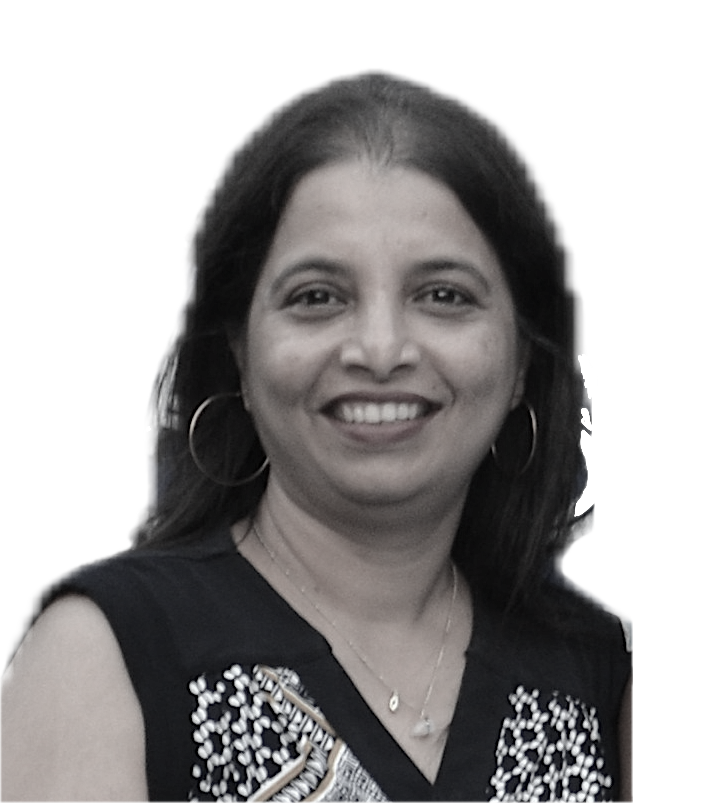
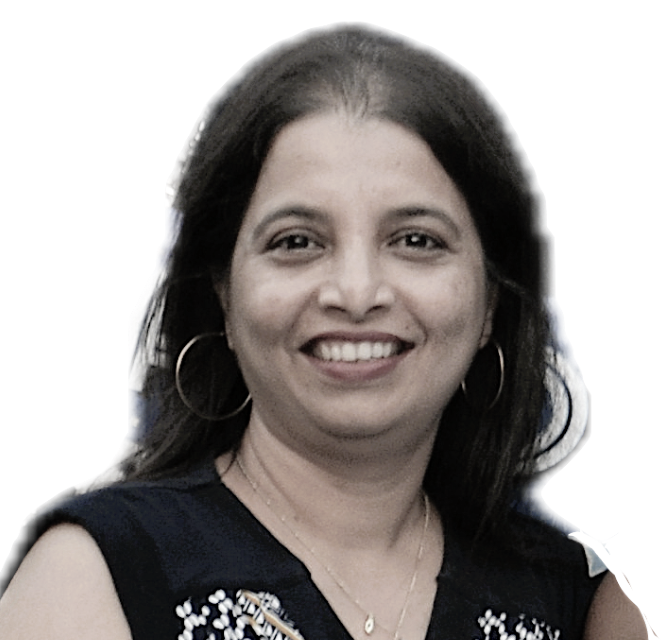
added more photos

diff --git a/index.html b/index.html
@@ -558,7 +558,7 @@
             <div class="owl-carousel team-carousel position-relative" style="padding-left: 30px;">
                 <div class="team-item rounded overflow-hidden">
                     <div class="position-relative">
-                        <img class="img-fluid w-100" src="img/Vru.jpg" alt="">
+                        <img class="img-fluid w-100" src="img/Vru.png" alt="">
                         <div class="team-overlay">
                             <div class="d-flex align-items-center justify-content-start">
                                 <a class="btn btn-lg btn-primary btn-lg-square mx-1" href="#"><i class="fab fa-twitter"></i></a>
@@ -569,12 +569,12 @@
                     </div>
                     <div class="bg-light text-center p-4">
                         <h4 class="text-uppercase">Vrushali Deore</h4>
-                        <p class="m-0">CEO, Founder</p>
+                        <p class="m-0">Founder & CEO</p>
                     </div>
                 </div>
                 <div class="team-item rounded overflow-hidden">
                     <div class="position-relative">
-                        <img class="img-fluid w-100" src="img/team-2.jpg" alt="">
+                        <img class="img-fluid w-100" src="img/Pankaj-Deore.jpg" alt="">
                         <div class="team-overlay">
                             <div class="d-flex align-items-center justify-content-start">
                                 <a class="btn btn-lg btn-primary btn-lg-square mx-1" href="#"><i class="fab fa-twitter"></i></a>
@@ -584,13 +584,13 @@
                         </div>
                     </div>
                     <div class="bg-light text-center p-4">
-                        <h4 class="text-uppercase">N/A</h4>
-                        <p class="m-0">N/A</p>
+                        <h4 class="text-uppercase">Pankaj Deore</h4>
+                        <p class="m-0">Advisor</p>
                     </div>
                 </div>
                 <div class="team-item rounded overflow-hidden">
                     <div class="position-relative">
-                        <img class="img-fluid w-100" src="img/team-3.jpg" alt="">
+                        <img class="img-fluid w-100" src="img/Blank.jpg" alt="">
                         <div class="team-overlay">
                             <div class="d-flex align-items-center justify-content-start">
                                 <a class="btn btn-lg btn-primary btn-lg-square mx-1" href="#"><i class="fab fa-twitter"></i></a>
@@ -600,8 +600,8 @@
                         </div>
                     </div>
                     <div class="bg-light text-center p-4">
-                        <h4 class="text-uppercase">N/A</h4>
-                        <p class="m-0">N/A</p>
+                        <h4 class="text-uppercase">To be Announced...</h4>
+                        <p class="m-0">Strategic Partner</p>
                     </div>
                 </div>
                 <!-- <div class="team-item rounded overflow-hidden">

diff --git a/about.html b/about.html
@@ -353,7 +353,7 @@
                     <div class="leader-role mb-2"></div>
                     <div class="d-flex justify-content-center">
                         <a href="#" class="text-primary mx-2" aria-label="LinkedIn"><i class="fab fa-linkedin"></i></a>
-                        <a href="mailto:vrushali.deore@igenservice.com" class="text-primary mx-2" aria-label="Email"><i class="fas fa-envelope"></i></a>
+                        <a href="mailto:vrushalid@igenservice.com" class="text-primary mx-2" aria-label="Email"><i class="fas fa-envelope"></i></a>
                     </div>
                 </div>
             </div>
